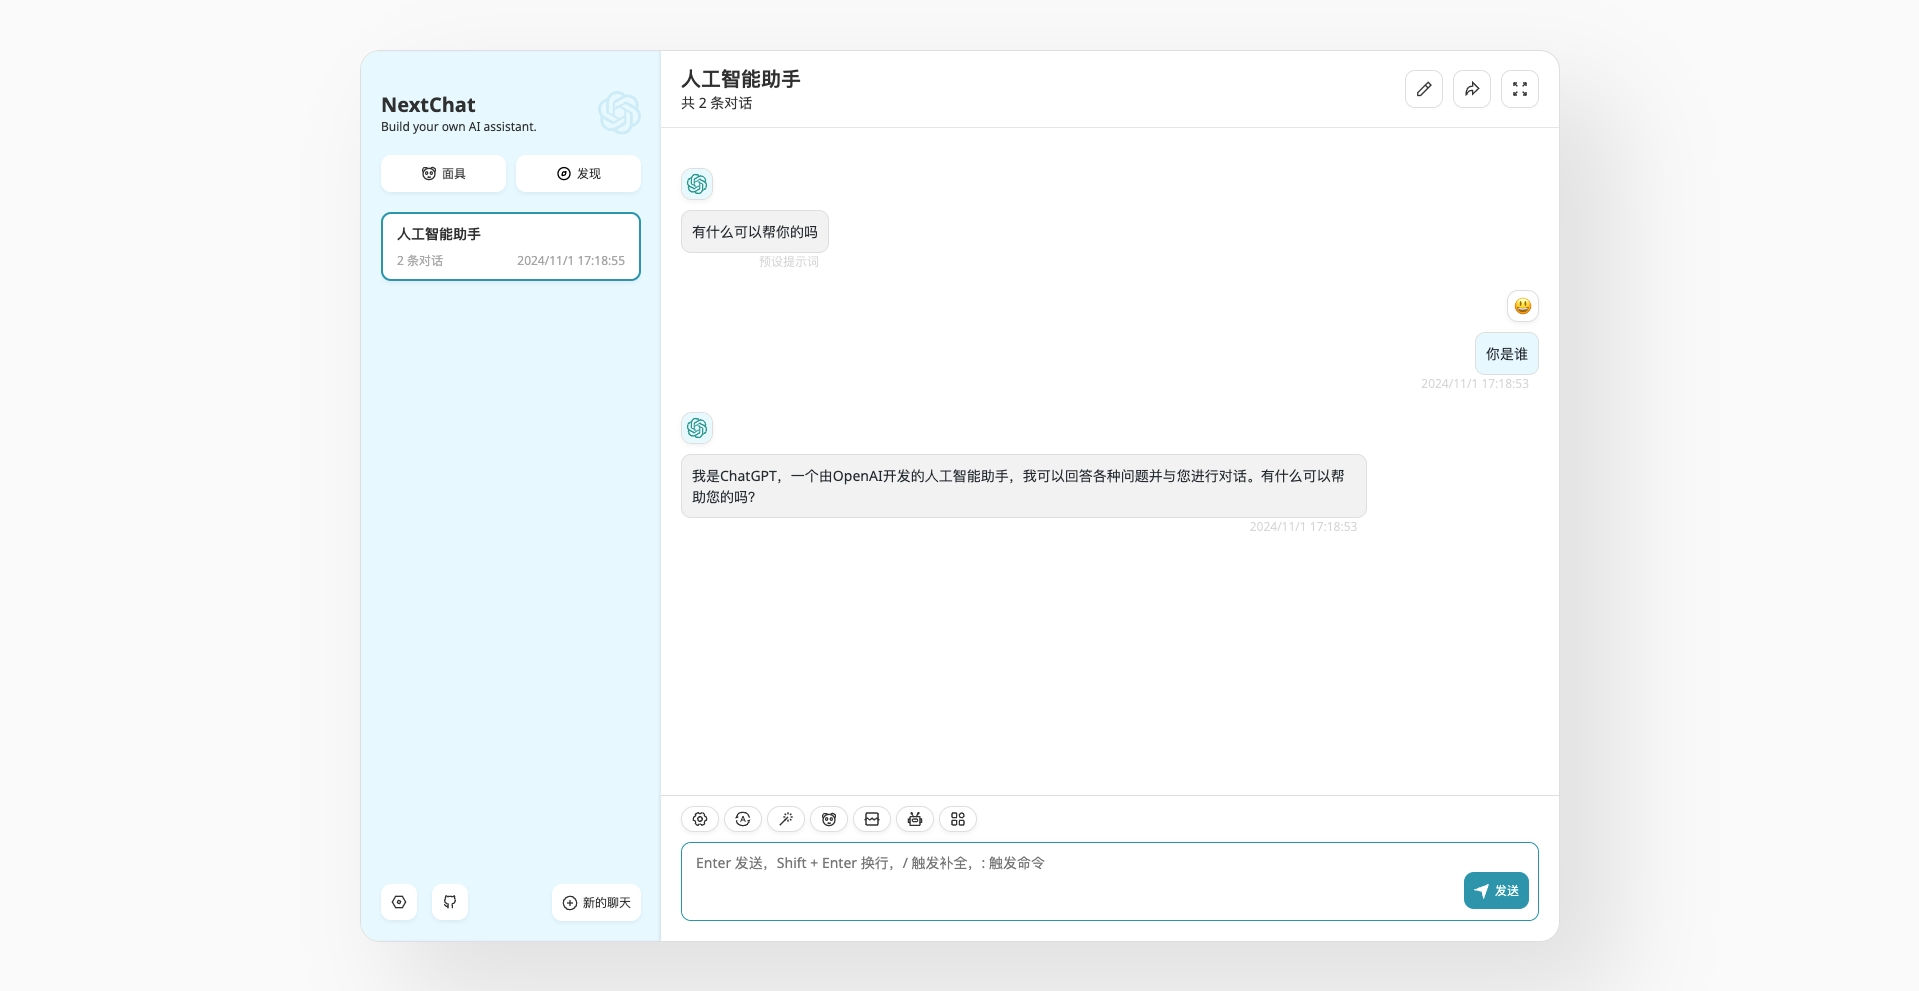
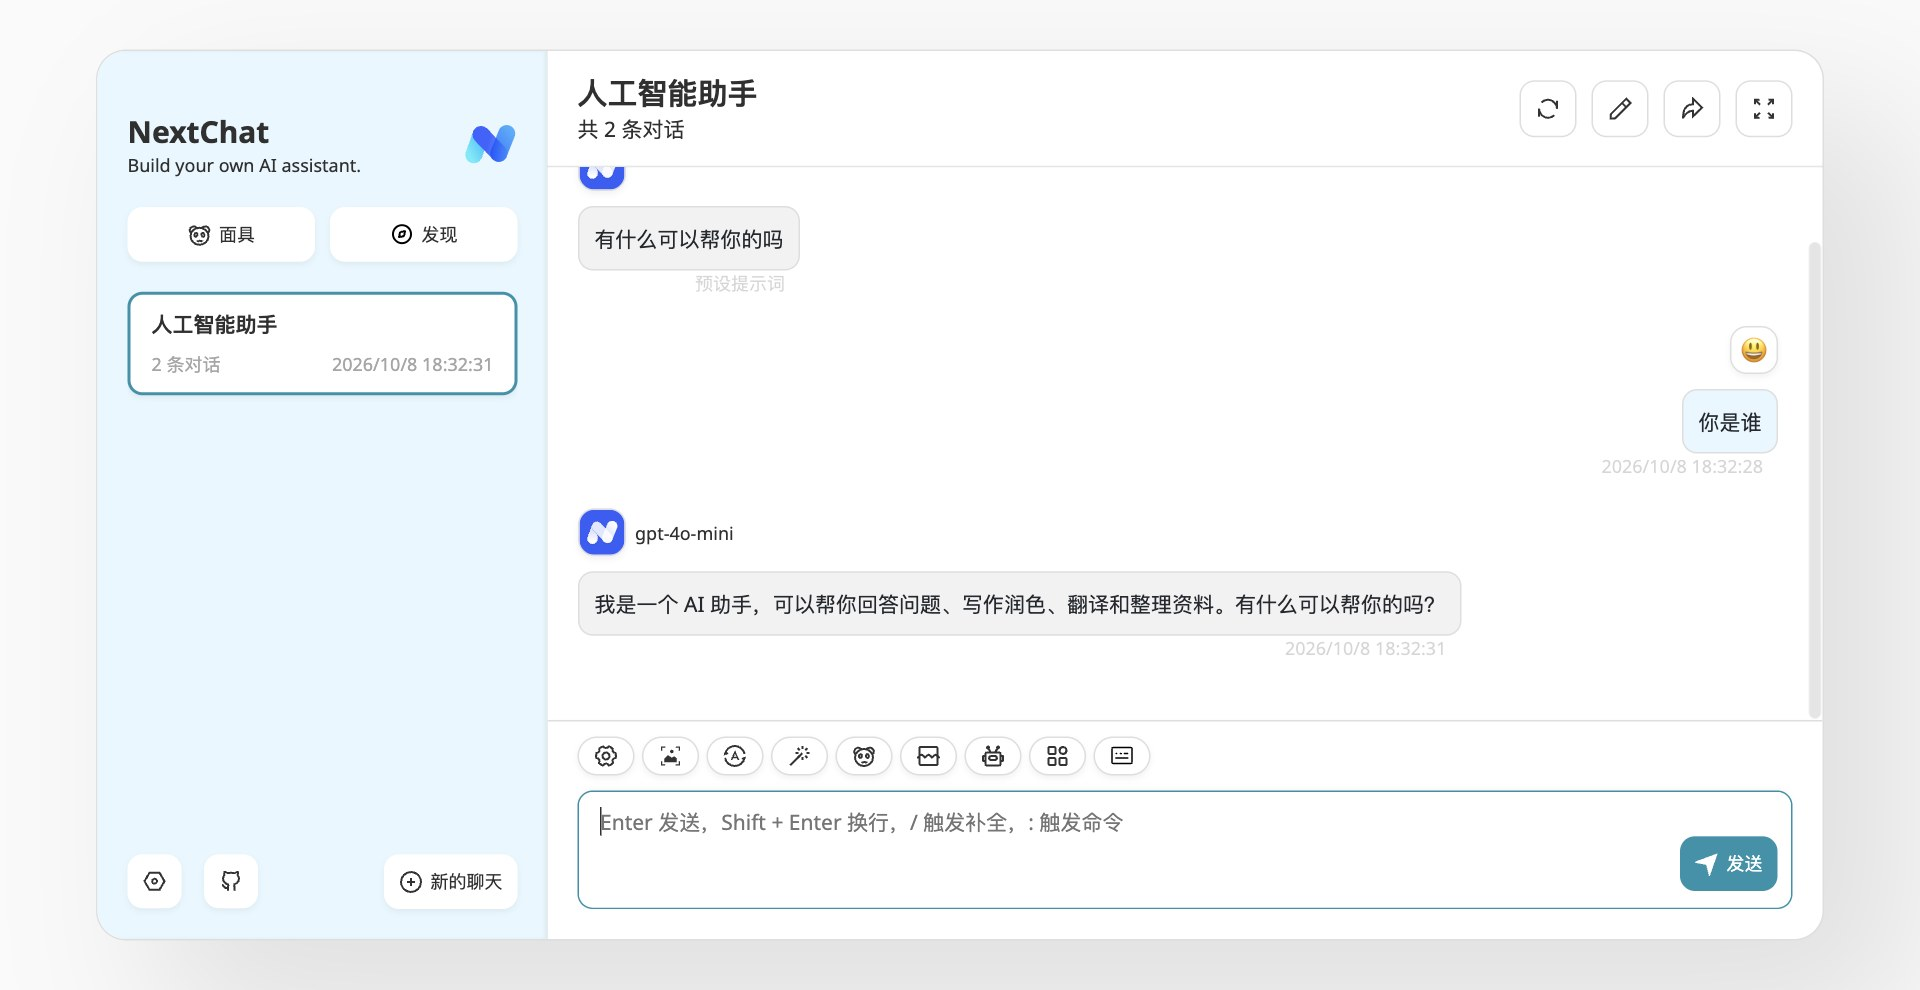
docs: update screenshots and wording to remove OpenAI branding
- Retake README showcase images (cover, settings, more) from the cleaned-up
  template, keeping the original layout.
- Retake BaoTa deployment screenshots (bt-install-3 ~ 6) following the same
  steps.
- Remove the "ChatGPT Next Web" window title from the Upstash sync screenshots
  and the OpenAI logo from the Vercel project screenshot.
- Replace "ChatGPT" product wording in the CN/JA README taglines and the BaoTa
  guide.

diff --git a/README_JA.md b/README_JA.md
@@ -3,7 +3,7 @@
 
 <h1 align="center">NextChat</h1>
 
-ワンクリックで無料であなた専用の ChatGPT ウェブアプリをデプロイ。GPT3、GPT4 & Gemini Pro モデルをサポート。
+ワンクリックで無料であなた専用の AI チャットウェブアプリをデプロイ。GPT3、GPT4 & Gemini Pro モデルをサポート。
 
 [NextChatAI](https://nextchat.club?utm_source=readme) / [企業版](#企業版) / [デモ](https://chat-gpt-next-web.vercel.app/) / [フィードバック](https://github.com/Yidadaa/ChatGPT-Next-Web/issues) / [Discordに参加](https://discord.gg/zrhvHCr79N)
 

diff --git a/README_CN.md b/README_CN.md
@@ -6,7 +6,7 @@
 
 <h1 align="center">NextChat</h1>
 
-一键免费部署你的私人 ChatGPT 网页应用，支持 Claude, GPT4 & Gemini Pro 模型。
+一键免费部署你的私人 AI 助手网页应用，支持 Claude, GPT4 & Gemini Pro 模型。
 
 [NextChatAI](https://nextchat.club?utm_source=readme) / [企业版](#%E4%BC%81%E4%B8%9A%E7%89%88) / [演示 Demo](https://chat-gpt-next-web.vercel.app/) / [反馈 Issues](https://github.com/Yidadaa/ChatGPT-Next-Web/issues) / [加入 Discord](https://discord.gg/zrhvHCr79N)
 

diff --git a/docs/bt-cn.md b/docs/bt-cn.md
@@ -19,7 +19,7 @@
 
 ## 如何访问
 ![bt-install-3](./images/bt/bt-install-3.jpeg)
-通过根据 服务器IP地址 和配置的 web端口 http://$(host):$(port)，在浏览器中打开 ChatGPT-Next-Web。
+通过根据 服务器IP地址 和配置的 web端口 http://$(host):$(port)，在浏览器中打开 NextChat。
 
 ![bt-install-4](./images/bt/bt-install-4.jpeg)
 若配置了 访问权限密码，访问大模型前需要登录，请点击 登录，获取访问权限。
